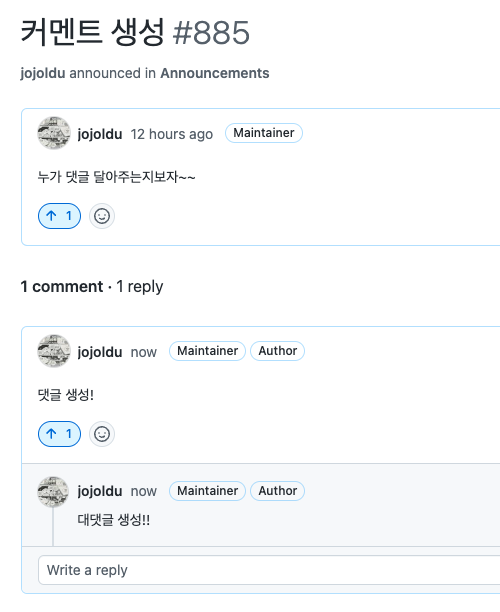
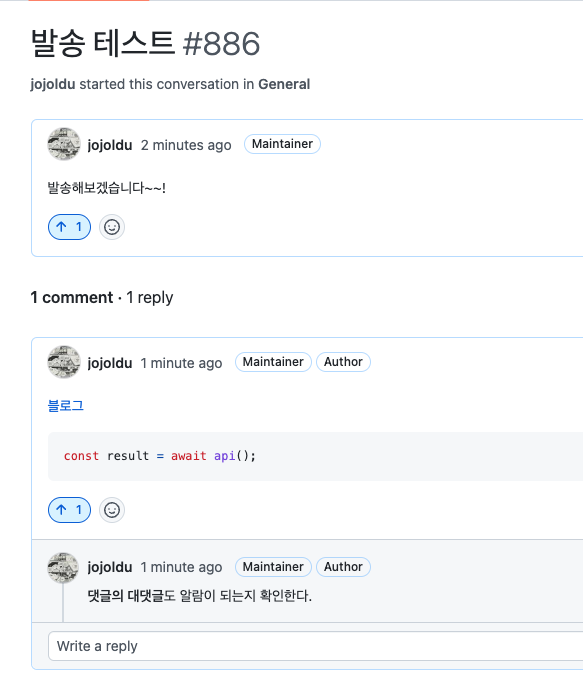
완성

Changed region(s): [[0.03, 0.4346, 1.0, 1.0], [0.03, 0.1863, 1.0, 0.4036], [0.03, 0.031, 0.54, 0.1552]]

diff --git a/티스토리/giscus-telegram/README.md b/티스토리/giscus-telegram/README.md
@@ -94,7 +94,7 @@ jobs:
         id: create-message
         run: |
           string='🐛 New Discussion on [${{ env.DISCUSSION_TITLE }}](${{ env.DISCUSSION_URL }}) \nby[@${{ env.USER_NAME }}](${{ env.USER_URL }}) \n\n${{ env.DISCUSSION_BODY }}"'
-          escaped_string=$(echo $string | sed 's/\([.!-_]\)/\\\\\1/g')
+          escaped_string=$(echo $string | sed 's/\([.!-]\)/\\\\\1/g')
           echo ${escaped_string}
           echo "MESSAGE_BODY=${escaped_string}" >> $GITHUB_OUTPUT
         env:
@@ -119,7 +119,7 @@ jobs:
 - `env`
   - Github의 `event` 변수가 너무 길어 환경 변수로 이들을 치환해서 `run`에서 사용한다.
 
-yml 파일이 모두 생성되었으면 Github에 Push 하고 실제로 Discussions을 하나 만들어서 정상적으로 알람이 오는지 확인한다.
+yml 파일이 모두 생성되었으면 Github에 Push 하고 실제로 Discussions을 하나 만들어서 정상적으로 알람이 오는지 확인 한다.
 
 ![gh1](./images/gh1.png)
 
@@ -134,7 +134,7 @@ yml 파일이 모두 생성되었으면 Github에 Push 하고 실제로 Discussi
 - 블로그 기준에서는 위에서 생성한 토론 생성에 대한 알람은 불필요할 수 있다.
 - 토론은 블로그에 첫 댓글이 달릴때만 알람이 오는 것인데, 개인적으로 첫 댓글에 대해서는 좀 더 의미를 부여해도 된다고 생각하는 편이다.
 
-기존에 만들어둔 yml 파일에 댓글에 대한 조건까지 추가하여 전체 코드는 다음과 같이 된다.
+기존에 만들어둔 yml 파일에 댓글에 대한 조건까지 추가하여 **전체 코드**는 다음과 같이 된다.
 
 ```yml
 name: GitHub Discussions Notifier
@@ -201,4 +201,15 @@ jobs:
   - Telegram에서 댓글 URL로 바로갈 수 있도록 URL을 메세지에 포함시킨다.
 - `COMMENT_BODY`
   - Telegram에서 보여줄 메세지를 댓글의 내용으로 변경한다.
+
+
+이렇게 댓글까지 등록후 Discussions 에서 토론과 댓글, 대댓글을 각각 생성해본다.
+
+![gh3](./images/gh3.png)
+
+다양한 특수문자와 마크다운 문법들을 이용해서 작성해보고, 해당 내용들이 전부 다 알람으로 오는지 메세지로 확인한다.  
+  
+다음과 같이 텔레그램 메세지가 모두다 도착한다면 모든 설정이 된 것이다.
+
+![gh4](./images/gh4.png)
 
